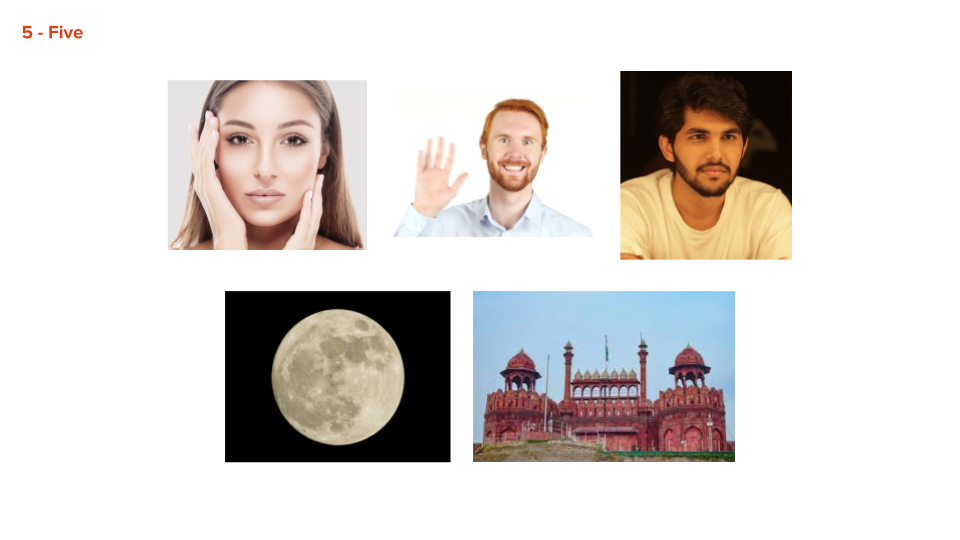
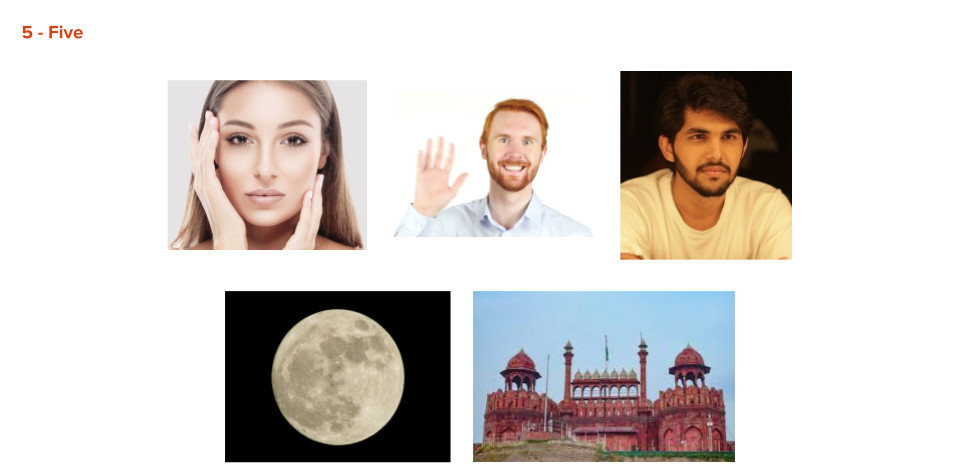
added 2 songs and cropped all images

Changed region(s): [[0.1562, 0.1181, 0.8438, 0.9747], [0.0, 0.0295, 0.0938, 0.0886]]

diff --git a/_posts/2021-05-19-P002-guess-the-song-game.md b/_posts/2021-05-19-P002-guess-the-song-game.md
@@ -2,9 +2,9 @@
 title:  "🎮 Game | I Made a 'Guess the Song' Quiz For Fun!"
 layout: post
 categories: [game]
+image: /assets/img/P002/cover.png
 description: "A fun game that can be hosted at any party, ideal for those who loves 90s Bollywood songs."
 customexcerpt: "A fun game that can be hosted at any party, ideal for those who loves 90s Bollywood songs."
-image: "/assets/img/cover.png"
 ---
 ![Cover](/assets/img/P002/cover.png)
 Illustration Source: "Happy Music" from [https://undraw.co](https://undraw.co/){:target="_blank"}
@@ -45,10 +45,17 @@ Hope that example would have given you a taste of the game, now let me dump ever
 {% include spoiler.html head="Reveal Answer!" text="Song : Yeh Haseen Wadiyan Yeh Khula Aasman" sub-text="How? : Yeh - Hass - Seen - Vaad(a) - Diya - Yeh - Khula - Aasmaan"%}
 <br>
 ![](/assets/img/P002/guess_the_song_7.png)
-{% include spoiler.html head="Reveal Answer!" text="Song : Tu Hi Re Tu Hi Re" sub-text="How? : Tu - Heere - Tu - Heere"%}
+{% include spoiler.html head="Reveal Answer!" text="Song : Zara Zara Behekta Hai" sub-text="How? : Zz - Ra - Zz - Ra - Behekta (Wander) - Hi - Smell (Mehekta) - Hi
+"%}
 <br>
 ![](/assets/img/P002/guess_the_song_8.png)
 {% include spoiler.html head="Reveal Answer!" text="Song : Tu Mile Dil Khile Aur Jeene Ko Kya Chahiye" sub-text="How? : Tu - Mile - Dill - Khile - Aur - Gene - Ko - Kya - Chai - Yay"%}
+<br>
+![](/assets/img/P002/guess_the_song_9.png)
+{% include spoiler.html head="Reveal Answer!" text="Song : Tu Hi Re Tu Hi Re" sub-text="How? : Tu - Heere - Tu - Heere"%}
+<br>
+![](/assets/img/P002/guess_the_song_10.png)
+{% include spoiler.html head="Reveal Answer!" text="Song : Sach Keh Raha hai Deewana" sub-text="How? : Sach - Keh - Ra - Ha - Hi - Diva - Na"%}
 
 <br><br><br><br><br><br><br>
 <br><br><br><br><br><br><br>
@@ -60,5 +67,7 @@ Hope that example would have given you a taste of the game, now let me dump ever
 4. [Gore Gore Mukhde Pe Kala Kala Chasma](https://www.youtube.com/watch?v=Q_fpEt216FA){:target="_blank"}
 5. [Chehra Hai Ya Chand Khila](https://www.youtube.com/watch?v=_mzdkxnU4mU){:target="_blank"}
 6. [Yeh Haseen Wadiyan](https://www.youtube.com/watch?v=z-vcE-UTc-0){:target="_blank"}
-7. [Tu Hi Re](https://www.youtube.com/watch?v=R3J3IDgKOLM){:target="_blank"}
+7. [Zara Zara Behekta Hai](https://www.youtube.com/watch?v=a71xD6RyOok){:target="_blank"}
 8. [Tum Mile Dil Khile](https://www.youtube.com/watch?v=GtslrDs3RWY){:target="_blank"}
+9. [Tu Hi Re](https://www.youtube.com/watch?v=R3J3IDgKOLM){:target="_blank"}
+10. [Sach Keh Raha hai Deewana](https://www.youtube.com/watch?v=nya9D8kluE0){:target="_blank"} 
